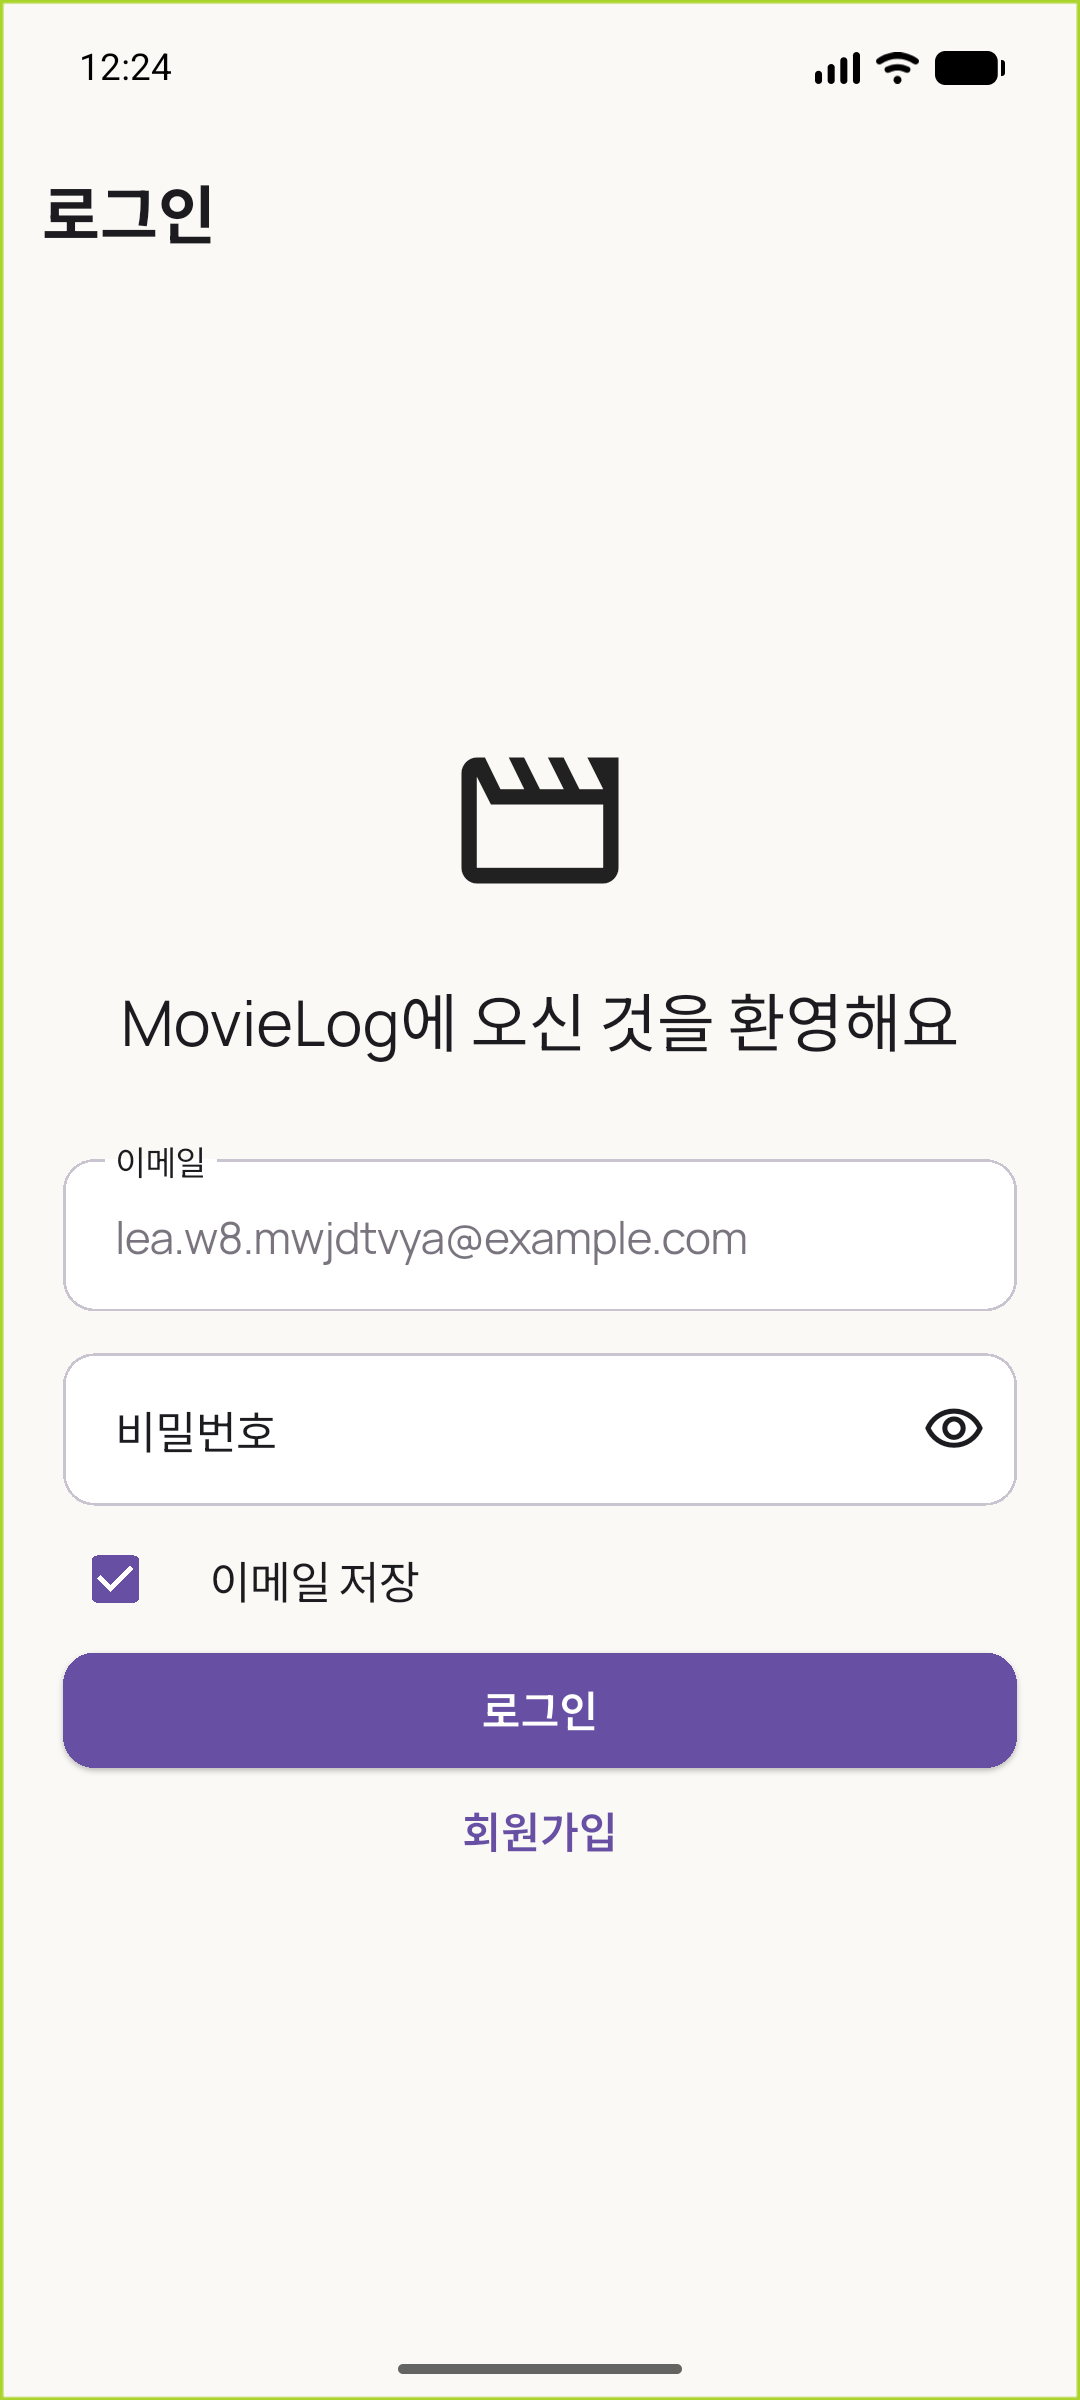
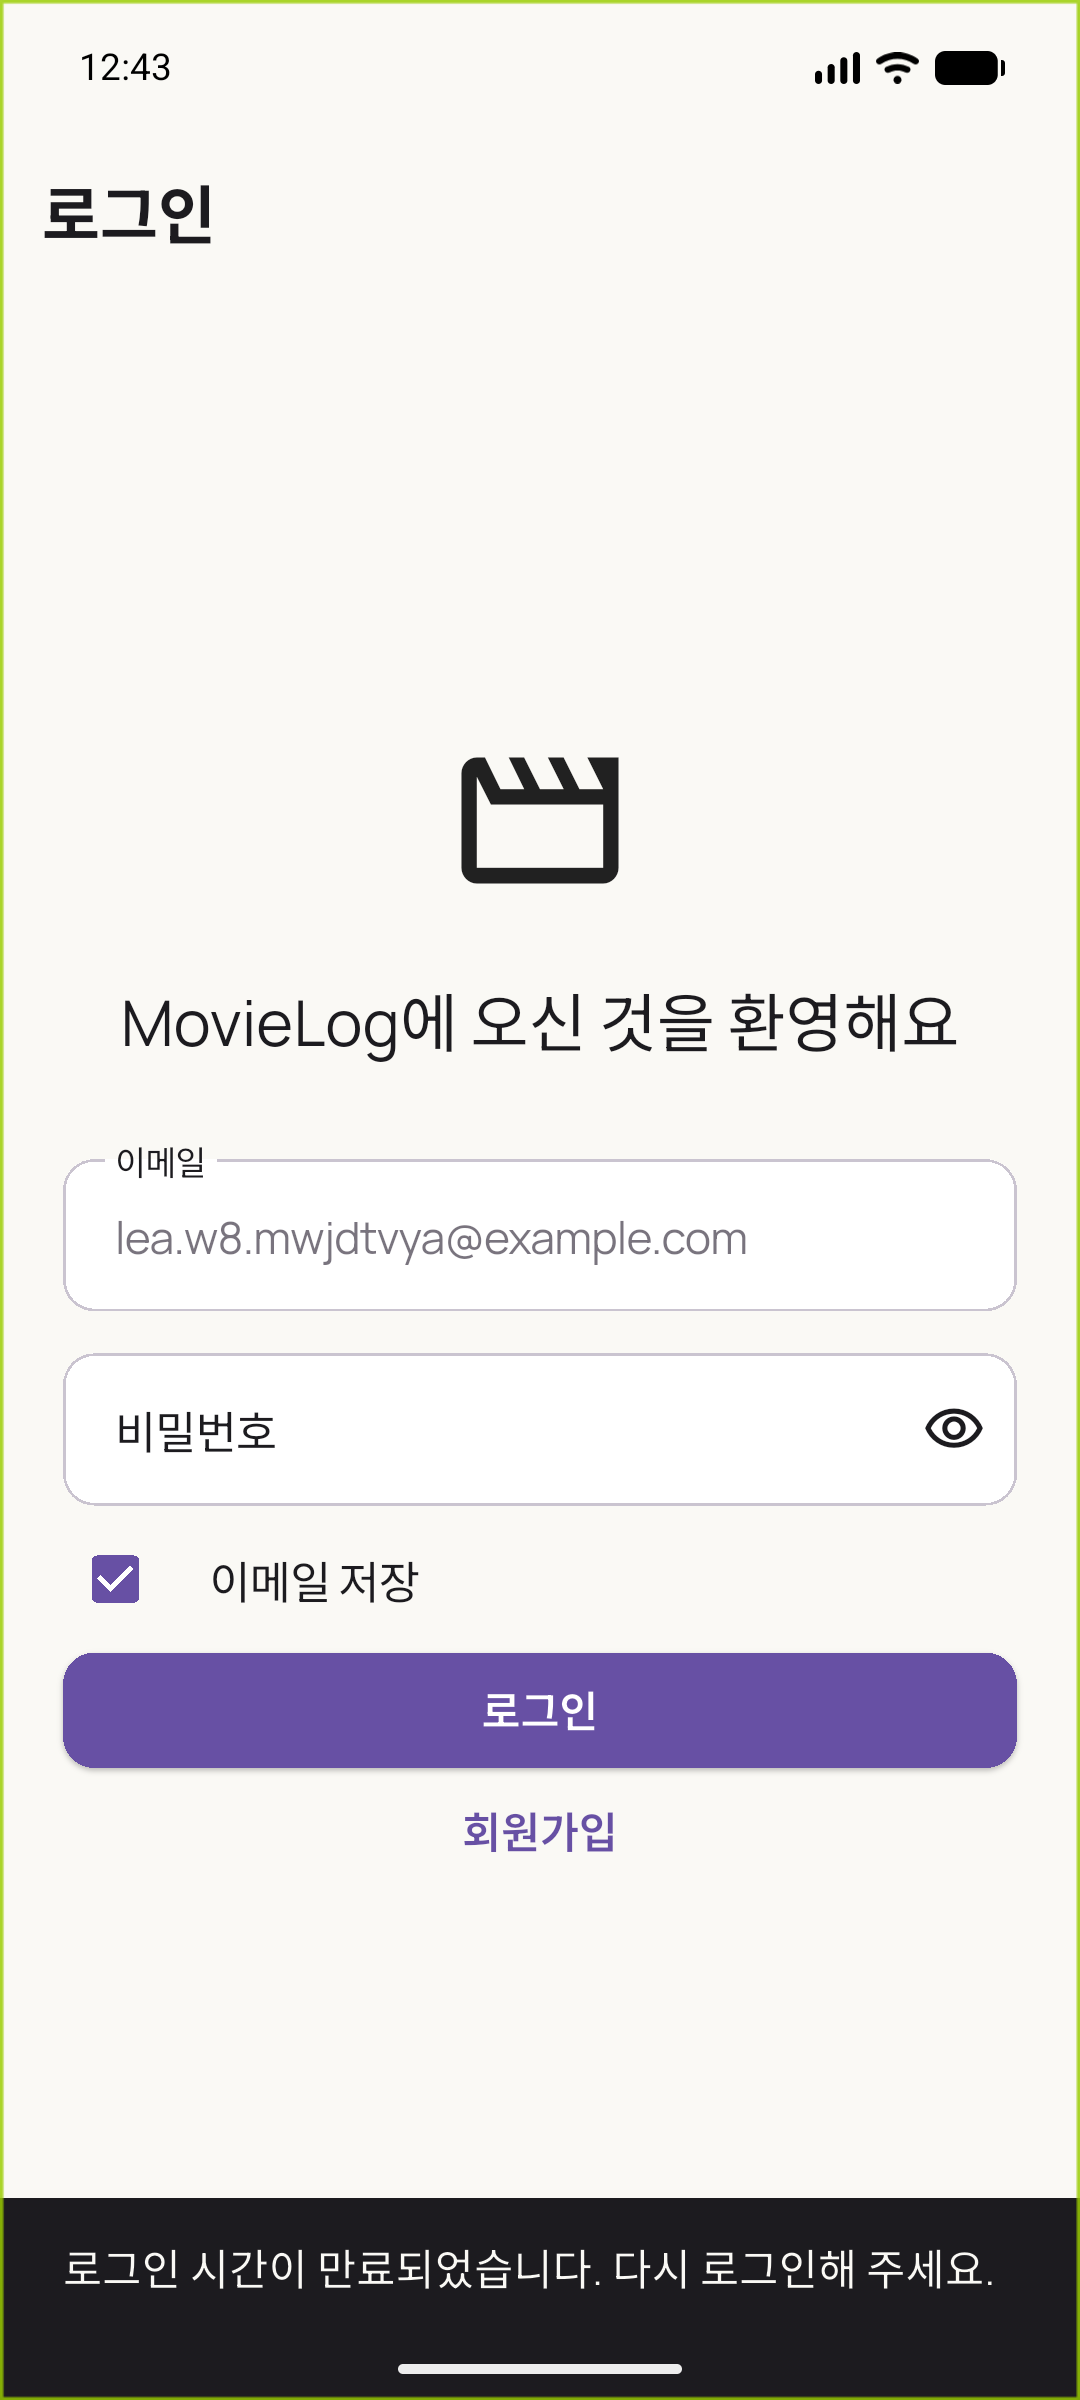
test: 실제 무효 토큰 안내와 최종 제출 증빙 보완

Changed region(s): [[0.0, 0.9062, 1.0, 1.0], [0.1222, 0.0, 0.1528, 0.0312]]

diff --git a/integration_test/week8_evidence_test.dart b/integration_test/week8_evidence_test.dart
@@ -490,6 +490,23 @@ void main() {
       });
       // ignore: avoid_print
       print('WEEK8_VIDEO_STOP=02-restart-logout-invalid');
+    } else if (phase == 'invalid') {
+      await tester.runAsync(
+        () => storage.saveAccessToken('invalid-local-test-token'),
+      );
+      await app();
+      await waitFor(tester, find.byKey(const Key('login-submit')));
+      await waitFor(tester, find.text('로그인 시간이 만료되었습니다. 다시 로그인해 주세요.'));
+      await capture(tester, '11-invalid-token');
+      expect(auth.status, AuthStatus.signedOut);
+      expect(await tester.runAsync(storage.readAccessToken), isNull);
+      report({
+        'phase': phase,
+        'passed': true,
+        'actualInvalidTokenNotice': true,
+        'tokenDeleted': true,
+        'requests': trace,
+      });
     } else {
       // Controlled API failures exercise real Android storage and production UI.
       await tester.runAsync(

diff --git a/scripts/check_week8.py b/scripts/check_week8.py
@@ -10,13 +10,13 @@ OUT = ROOT / 'evidence/week8-frontend'
 def git(*args):
     return subprocess.check_output(['git', *args], cwd=ROOT, text=True).strip().splitlines()
 
-results = {name: json.loads((OUT / f'result-{name}.json').read_text()) for name in ['live', 'restore', 'errors']}
+results = {name: json.loads((OUT / f'result-{name}.json').read_text()) for name in ['live', 'restore', 'errors', 'invalid']}
 assert all(result['passed'] for result in results.values())
 assert results['live']['ratingCleaned'] and results['live']['secureStorageRead']
 assert all(results['restore'][key] for key in ['restoredAfterProcessRestart','logoutTokenDeleted','protectedRedirect','invalidToken401'])
 assert all(results['errors'][key] for key in ['injected503RetainsToken','injected403RetainsSession','injectedExpired401ClearsSession'])
-requests = [r for name in ['live','restore'] for r in results[name]['requests'] if 'method' in r]
-assert len(requests) == 16
+requests = [r for name in ['live','restore','invalid'] for r in results[name]['requests'] if 'method' in r]
+assert len(requests) == 17
 assert {200, 201, 401, 403, 409}.issubset({r['status'] for r in requests})
 created = next(r for r in requests if r['method']=='POST' and r['path']=='/v7/ratings')
 assert created['bearerAttached'] and 'memberId' not in created['body']
@@ -26,7 +26,7 @@ assert '+94: All tests passed!' in (OUT/'flutter-test.txt').read_text()
 analyze = (OUT/'flutter-analyze.txt').read_text()
 assert 'error •' not in analyze and 'warning •' not in analyze
 assert '2 issues found' in analyze
-for phase in ['live','restore','errors']:
+for phase in ['live','restore','errors','invalid']:
     assert 'All tests passed!' in (OUT/f'android-{phase}.txt').read_text()
 pngs = list(OUT.glob('*.png'))
 assert len(pngs) == 18
@@ -66,7 +66,7 @@ assert not any(name.endswith('/.env') or name=='.env' for name in git('ls-files'
 subprocess.run(['git','diff','--check'],cwd=ROOT,check=True)
 changed.update({'evidence/week8-frontend/changed-files.txt','evidence/week8-frontend/verification-summary.json'})
 (OUT/'changed-files.txt').write_text('\n'.join(sorted(changed))+'\n')
-summary={'flutterTests':94,'androidScenarios':3,'actualV7Requests':len(requests),'analyzeExitCode':0,
+summary={'flutterTests':94,'androidScenarios':4,'actualV7Requests':len(requests),'analyzeExitCode':0,
          'existingWeek0Infos':2,'nativePlatform':'Android Pixel 7 emulator','pngScreenshots':len(pngs),
          'videos':2,'tokenValuesAbsentFromChangedText':True,'envUntracked':True,
          'finalFixtureMemberIds':[52,53],'finalRatingId':36,'finalRatingDeleted':True,
@@ -74,4 +74,4 @@ summary={'flutterTests':94,'androidScenarios':3,'actualV7Requests':len(requests)
          'fixtureAccountsCreatedAcrossAttempts':14,'manualUserCheckPending':True,
          'expiry4014':'injected','invalid4013':'actualAPI','iOSVerified':False}
 (OUT/'verification-summary.json').write_text(json.dumps(summary,ensure_ascii=False,indent=2)+'\n')
-print('PASS: Flutter 94, Android 3, actual API 16, secure storage restore/delete, artifacts, credential scan, ignored env, diff check')
+print('PASS: Flutter 94, Android 4, actual API 17, secure storage restore/delete, artifacts, credential scan, ignored env, diff check')

diff --git a/WEEK8_FRONTEND_SUBMISSION_GUIDE.md b/WEEK8_FRONTEND_SUBMISSION_GUIDE.md
@@ -16,7 +16,7 @@ PR_LINK_PENDING
 
 ## 구현과 검증 범위
 
-Flutter 테스트94개, Android UI 시나리오3개, 실제 v7 요청16건을 통과했다. analyze는 종료 코드0이며 기존 week0 info2건이다.
+Flutter 테스트94개, Android UI 시나리오4개, 실제 v7 요청17건을 통과했다. analyze는 종료 코드0이며 기존 week0 info2건이다.
 
 | 원본 항목 | 구현 및 확인 방법 |
 | --- | --- |
